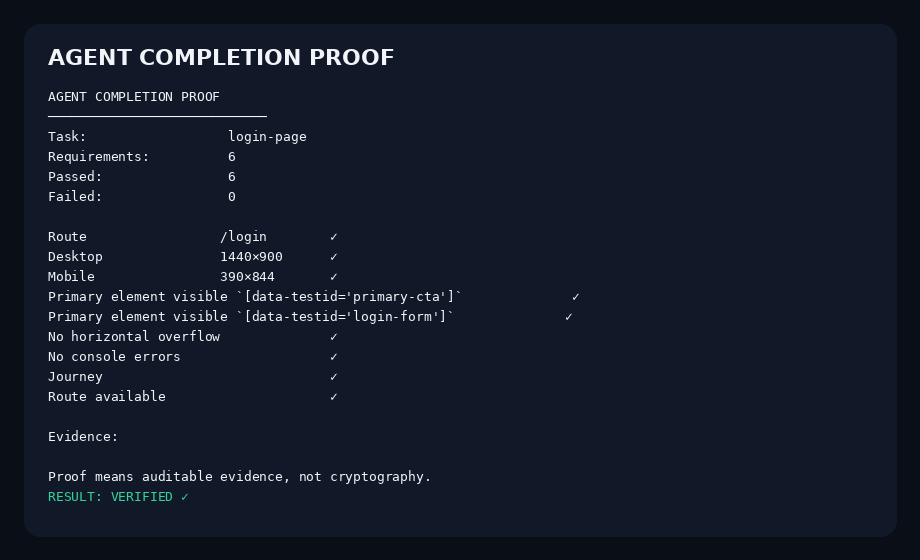
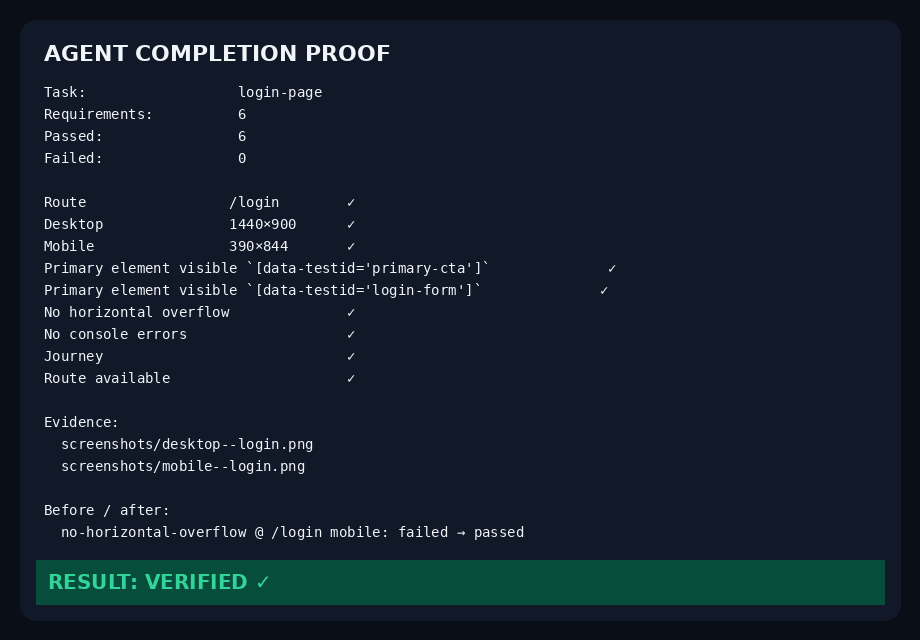
Fix README visual QA: distinguish viewport overflow from screenshot crop.
Widen the failure annotation so measurements are fully visible, label the
390px viewport edge, complete the proof card with VERIFIED, and keep the
real CTA clip as the detected bug.

Changed region(s): [[0.0304, 0.0607, 0.9739, 0.9714], [0.2435, 0.1821, 0.3348, 0.2732]]

diff --git a/scripts/build_release_assets.py b/scripts/build_release_assets.py
@@ -60,67 +60,91 @@ def save(img: Image.Image, path: Path) -> None:
     print("wrote", path)
 
 
-def annotate_fail(shot: Image.Image, scroll: int, vw: int) -> Image.Image:
+def annotate_fail(shot: Image.Image, scroll: int, vw: int, overflow: int) -> Image.Image:
+    """Keep the 390px viewport intact (intentional CTA clip) and put measurements on a wider canvas."""
     img = shot.convert("RGB")
-    # Crop to CTA area (lower-middle of 390x844)
-    top = min(420, img.height - 280)
-    crop = img.crop((0, top, img.width, min(img.height, top + 280)))
-    canvas = Image.new("RGB", (crop.width, crop.height + 72), BG)
-    canvas.paste(crop, (0, 72))
+    top = min(360, img.height - 360)
+    crop = img.crop((0, top, img.width, min(img.height, top + 360)))
+    banner_h = 100
+    gutter = 220
+    pad = 16
+    canvas = Image.new("RGB", (pad + crop.width + gutter + pad, banner_h + pad + crop.height + pad), BG)
     draw = ImageDraw.Draw(canvas)
-    draw.rectangle((0, 0, canvas.width, 72), fill=(127, 29, 29))
-    draw.text((16, 12), "✗  ACCEPTANCE FAILED", fill=INK, font=font(18, True))
+    draw.rectangle((0, 0, canvas.width, banner_h), fill=(127, 29, 29))
+    draw.text((20, 14), "✗  ACCEPTANCE FAILED", fill=INK, font=font(22, True))
+    draw.text((20, 48), "Mobile viewport 390×844  ·  CTA exceeds the viewport (detected overflow)", fill=(254, 202, 202), font=font(14))
     draw.text(
-        (16, 40),
-        f"Mobile 390×844  ·  overflow  scrollWidth={scroll}  viewportWidth={vw}",
-        fill=(254, 202, 202),
-        font=font(12),
+        (20, 72),
+        f"scrollWidth={scroll}   viewportWidth={vw}   overflowPx={overflow}",
+        fill=INK,
+        font=mono(15),
     )
+    ox, oy = pad, banner_h + pad
+    canvas.paste(crop, (ox, oy))
+    draw.rectangle((ox, oy, ox + crop.width, oy + crop.height), outline=RED, width=3)
+    draw.line((ox + crop.width, oy, ox + crop.width, oy + crop.height), fill=RED, width=4)
+    gx = ox + crop.width + 16
+    draw.text((gx, oy + 40), "390px", fill=RED, font=font(20, True))
+    draw.text((gx, oy + 70), "viewport", fill=INK, font=font(16, True))
+    draw.text((gx, oy + 96), "edge", fill=INK, font=font(16, True))
+    draw.text((gx, oy + 150), f"+{overflow}px", fill=RED, font=font(22, True))
+    draw.text((gx, oy + 182), "beyond", fill=MUTED, font=font(14))
+    draw.text((gx, oy + 204), "viewport", fill=MUTED, font=font(14))
+    draw.text((gx, oy + 250), "Bug in the page,", fill=MUTED, font=font(13))
+    draw.text((gx, oy + 270), "not a cropped shot.", fill=MUTED, font=font(13))
     return canvas
 
 
 def before_after(before: Image.Image, after: Image.Image) -> Image.Image:
-    def card(img, title, ok: bool):
-        # Crop CTA band
-        top = min(400, img.height - 360)
-        crop = img.crop((0, top, img.width, min(img.height, top + 360))).resize((360, 332), Image.Resampling.LANCZOS)
-        c = Image.new("RGB", (360, 380), PANEL)
-        c.paste(crop, (0, 48))
+    def card(src: Image.Image, title: str, ok: bool, caption: str) -> Image.Image:
+        top = min(360, src.height - 380)
+        crop = src.crop((0, top, src.width, min(src.height, top + 380)))
+        header = 52
+        footer = 36
+        c = Image.new("RGB", (crop.width, header + crop.height + footer), PANEL)
+        c.paste(crop, (0, header))
         d = ImageDraw.Draw(c)
-        color = GREEN if ok else RED
-        d.rectangle((0, 0, 360, 48), fill=(20, 83, 45) if ok else (127, 29, 29))
-        d.text((12, 14), title, fill=color, font=font(16, True))
+        d.rectangle((0, 0, c.width, header), fill=(20, 83, 45) if ok else (127, 29, 29))
+        d.text((12, 14), title, fill=GREEN if ok else RED, font=font(16, True))
+        d.rectangle((0, header + crop.height, c.width, c.height), fill=(15, 23, 42))
+        d.text((12, header + crop.height + 8), caption, fill=MUTED, font=font(13))
         return c
 
-    left = card(before, "BEFORE  ·  ✗ FAILED", False)
-    right = card(after, "AFTER  ·  ✓ VERIFIED", True)
-    canvas = Image.new("RGB", (760, 420), BG)
-    canvas.paste(left, (16, 20))
-    canvas.paste(right, (384, 20))
+    left = card(before, "BEFORE  ·  ✗ FAILED", False, "390×844 viewport  ·  CTA clipped by the page")
+    right = card(after, "AFTER  ·  ✓ VERIFIED", True, "390×844 viewport  ·  CTA fully visible")
+    gap = 20
+    canvas = Image.new("RGB", (left.width + right.width + gap + 32, left.height + 32), BG)
+    canvas.paste(left, (16, 16))
+    canvas.paste(right, (16 + left.width + gap, 16))
     return canvas
 
 
 def proof_image(text: str) -> Image.Image:
     lines = [ln.rstrip() for ln in text.strip().splitlines()]
-    canvas = Image.new("RGB", (920, 560), BG)
+    keep: list[str] = []
+    for ln in lines:
+        if ln.startswith("AGENT ") or ln.startswith("─"):
+            continue
+        if ln.strip().startswith("/") or "asset-work" in ln or ln.strip().startswith("logs/"):
+            continue
+        keep.append(ln)
+    result_ln = next((ln for ln in keep if ln.startswith("RESULT:")), None)
+    body = [ln for ln in keep if not ln.startswith("RESULT:")]
+    canvas = Image.new("RGB", (920, 640), BG)
     draw = ImageDraw.Draw(canvas)
-    rounded(draw, (24, 24, 896, 536), 16, PANEL)
-    y = 44
-    draw.text((48, y), "AGENT COMPLETION PROOF", fill=INK, font=font(22, True))
-    y = 88
-    body = lines[:18]
-    tail = [ln for ln in lines if ln.startswith("RESULT:") or ln.startswith("Proof means")]
-    shown = body + ([""] if tail else []) + tail
-    for ln in shown:
+    rounded(draw, (20, 20, 900, 620), 16, PANEL)
+    y = 40
+    draw.text((44, y), "AGENT COMPLETION PROOF", fill=INK, font=font(22, True))
+    y = 84
+    for ln in body:
         color = INK
-        if "VERIFIED" in ln:
-            color = GREEN
-        elif "NOT VERIFIED" in ln or (ln.startswith("Failed:") and not ln.endswith("0")):
-            color = RED
-        draw.text((48, y), ln[:90], fill=color, font=mono(13))
-        y += 20
-        if y > 500:
+        draw.text((44, y), ln[:82], fill=color, font=mono(14))
+        y += 22
+        if y > 540:
             break
+    if result_ln:
+        draw.rectangle((36, 560, 884, 604), fill=(6, 78, 59))
+        draw.text((48, 570), result_ln, fill=GREEN, font=font(20, True))
     return canvas
 
 
@@ -260,6 +284,10 @@ def hero_stage(
 
     left = fit_cover(browser.convert("RGB"), LEFT_W, H - HEAD_H, bias_left=True)
     img.paste(left, (0, HEAD_H))
+    if mood == "fail":
+        draw.line((LEFT_W - 3, HEAD_H, LEFT_W - 3, H), fill=RED, width=4)
+        draw.rectangle((LEFT_W - 248, H - 44, LEFT_W - 12, H - 12), fill=(127, 29, 29))
+        draw.text((LEFT_W - 236, H - 38), "390px viewport edge", fill=INK, font=font(14, True))
     draw.rectangle((LEFT_W, HEAD_H, LEFT_W + 2, H), fill=LINE)
 
     rx = LEFT_W + 28
@@ -362,6 +390,7 @@ def main() -> None:
     )
     ev = overflow["evidence"]
     sw, vw = int(ev["scrollWidth"]), int(ev["viewportWidth"])
+    overflow_px = int(ev.get("overflowPx") or (sw - vw))
 
     proof_text = (adir / "proof.txt").read_text(encoding="utf-8")
     # Copy raw artifacts for docs
@@ -371,7 +400,7 @@ def main() -> None:
     shutil.copyfile(adir / "github.md", ROOT / "docs" / "sample-github-comment.md")
     shutil.copyfile(adir / "proof.json", raw / "proof.json")
 
-    fail = annotate_fail(fail_shot, sw, vw)
+    fail = annotate_fail(fail_shot, sw, vw, overflow_px)
     save(fail, ASSETS / "screenshots" / "mobile-failure.png")
     save(before_after(fail_shot, ok_shot), ASSETS / "screenshots" / "before-after.png")
     save(proof_image(proof_text), ASSETS / "screenshots" / "proof.png")
@@ -382,7 +411,6 @@ def main() -> None:
     desk_ui = crop_desktop_ui(desk)
     fail_ui = highlight_cta(crop_mobile_problem(fail_shot))
     ok_ui = crop_mobile_problem(ok_shot)
-    overflow_px = int(ev.get("overflowPx") or (sw - vw))
 
     gif_frames = [
         hero_stage(
@@ -488,7 +516,7 @@ def main() -> None:
     ]
     dest = ASSETS / "hero" / "agent-ui-loop-demo.gif"
     dest.parent.mkdir(parents=True, exist_ok=True)
-    durations = [1800, 1600, 1600, 2600, 2000, 1800, 1600, 2400]
+    durations = [1100, 1100, 1100, 2800, 2000, 1800, 1600, 2500]
     quantized = []
     for fr in gif_frames:
         try:
@@ -521,6 +549,7 @@ def main() -> None:
     meta = {
         "scrollWidth": sw,
         "viewportWidth": vw,
+        "overflowPx": overflow_px,
         "beforeRun": str(bdir),
         "afterRun": str(adir),
     }

diff --git a/README.md b/README.md
@@ -90,13 +90,13 @@ Agent UI Loop
 
 An agent can ship a login page that looks fine at 1440×900 and still overflow at 390×844. “Done” is a claim. Overflow `scrollWidth=593` vs `viewportWidth=390` is a measurement.
 
-![Mobile acceptance fails: CTA wider than the 390×844 viewport, scrollWidth=593](assets/screenshots/mobile-failure.png)
+![Mobile acceptance fails: CTA clipped by the 390×844 viewport; scrollWidth=593, overflowPx=203](assets/screenshots/mobile-failure.png)
 
-<p align="center"><sub>Mobile acceptance fails because the rendered CTA is wider than the viewport (<code>scrollWidth=593</code>, <code>viewportWidth=390</code>).</sub></p>
+<p align="center"><sub>The blue CTA is cut off by the <strong>390px mobile viewport</strong> (the bug). The red banner is wide enough to show the full measurements: <code>scrollWidth=593</code>, <code>viewportWidth=390</code>, <code>overflowPx=203</code>.</sub></p>
 
 ![Before failed mobile CTA vs after verified wrapped CTA](assets/screenshots/before-after.png)
 
-<p align="center"><sub>The same page after the demo’s CSS fix. Overflow is gone; the run is VERIFIED.</sub></p>
+<p align="center"><sub>Same 390×844 framing. Left: CTA clipped by the viewport. Right: after the sample-app CSS fix, the full CTA is visible and the run is VERIFIED.</sub></p>
 
 The demo **does** edit the sample app’s CSS. It does **not** edit your repository.
 

diff --git a/docs/sample-github-comment.md b/docs/sample-github-comment.md
@@ -17,7 +17,7 @@
 - `screenshots/desktop--login.png`
 - `screenshots/mobile--login.png`
 
-**Commit:** `d9c0b09`
+**Commit:** `a22b080`
 
 **RESULT: VERIFIED ✓**
 
